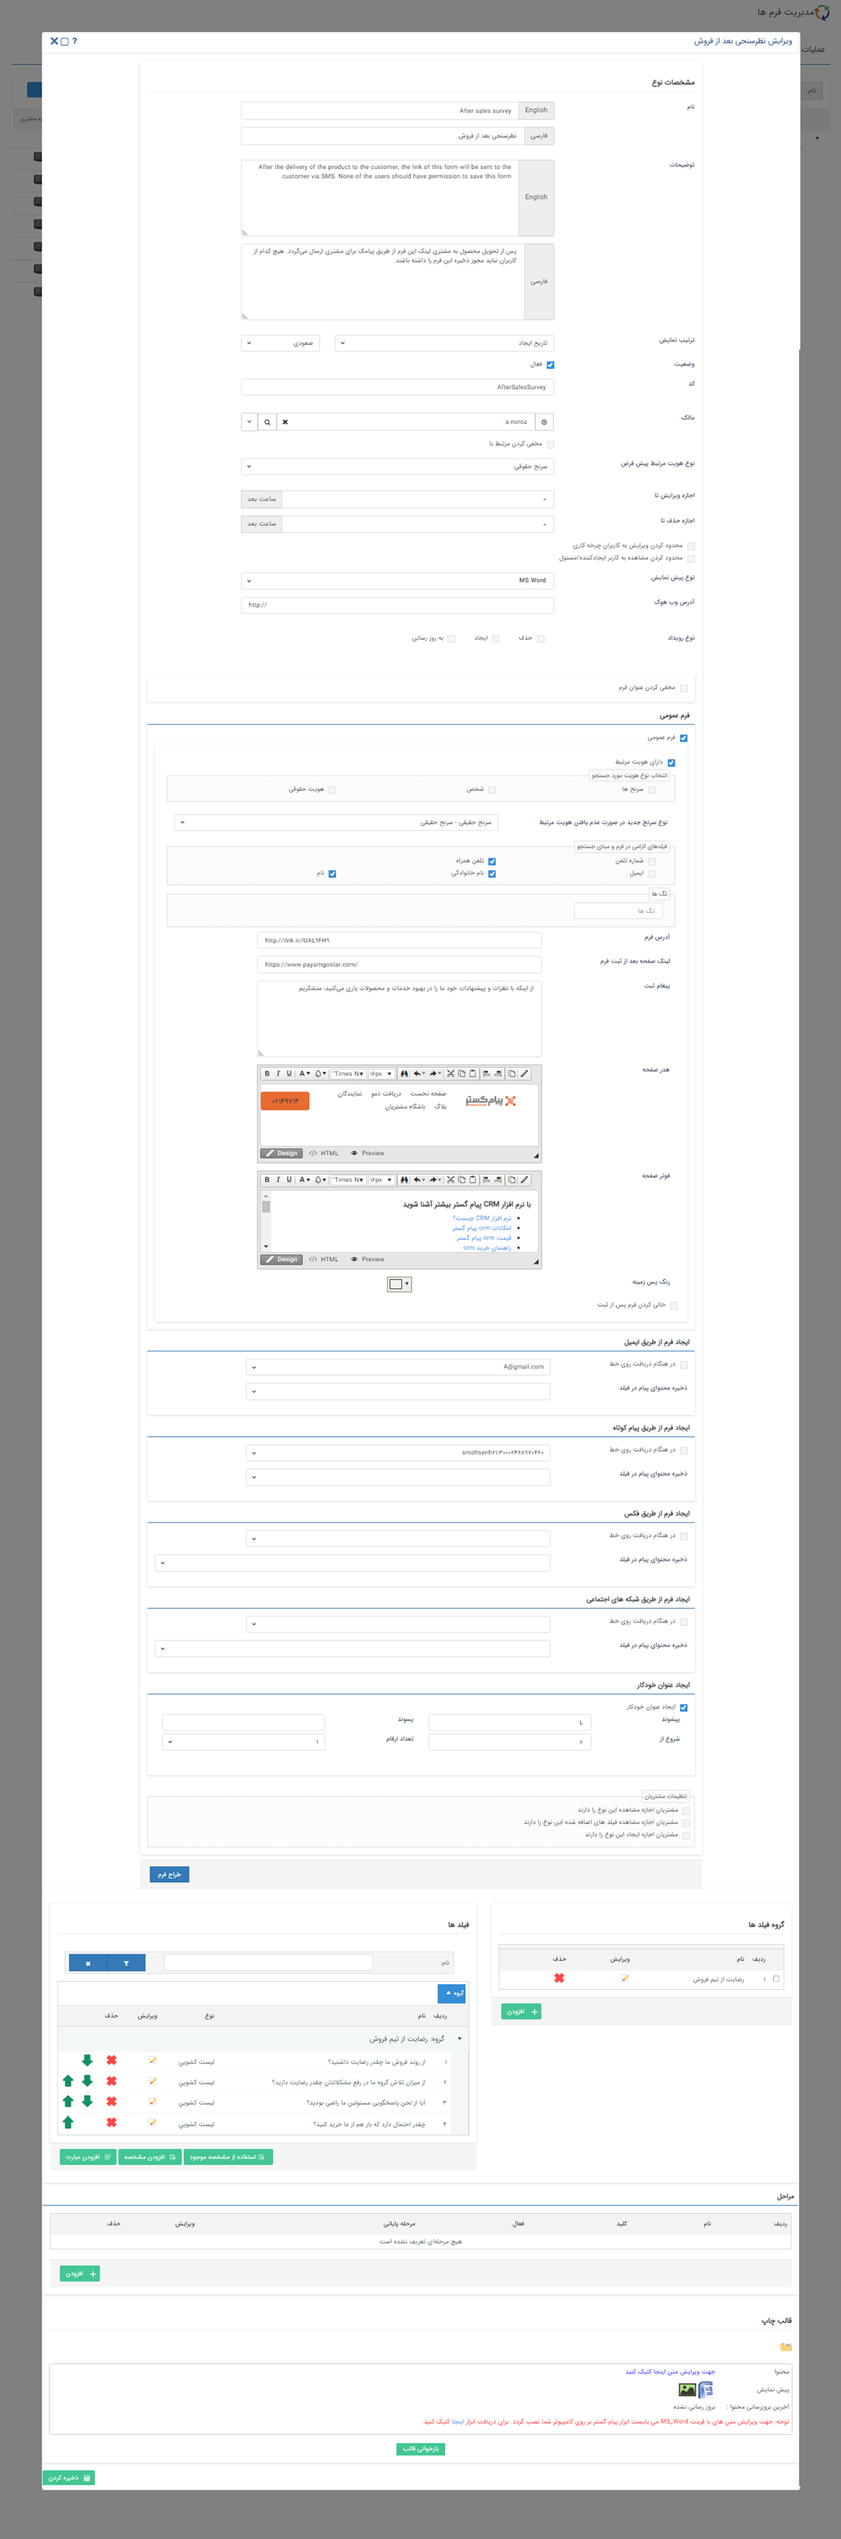
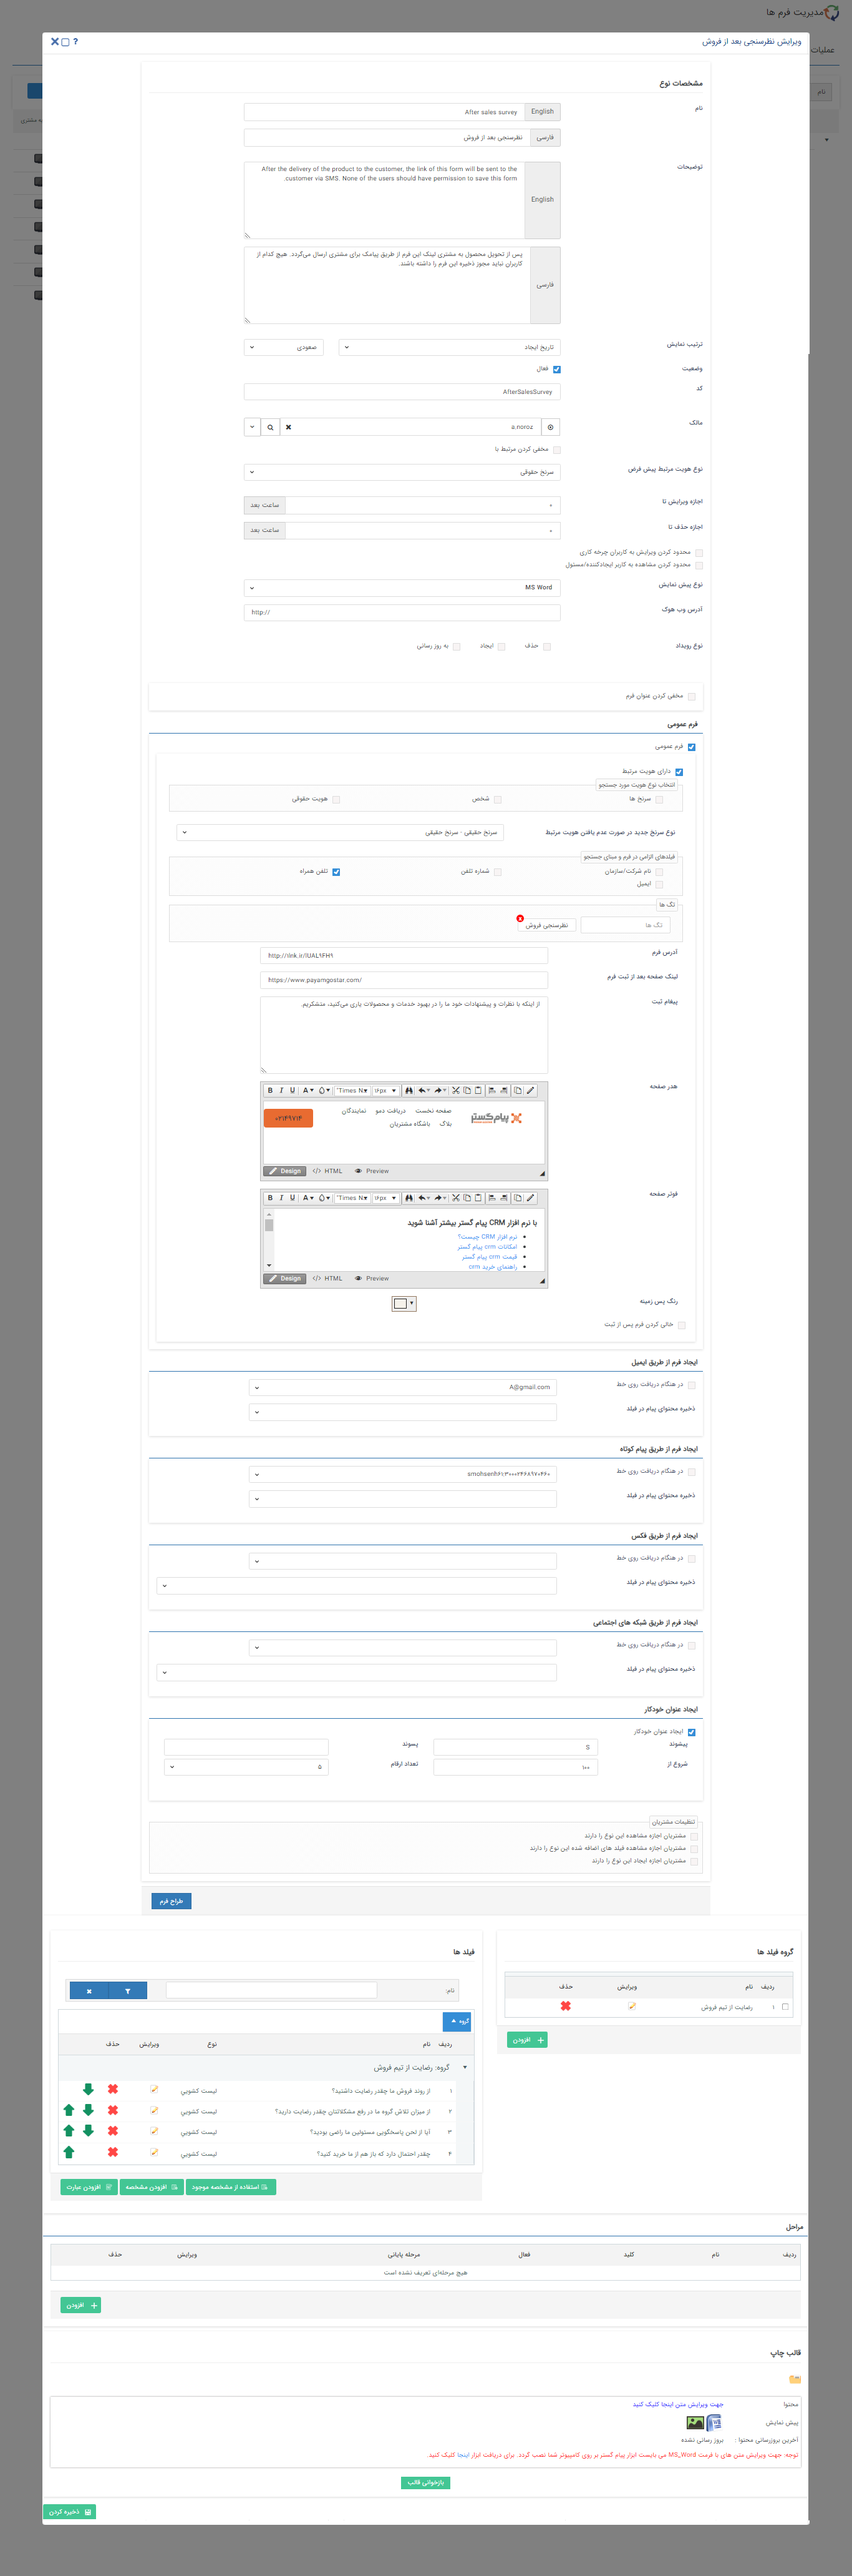
General form edition

diff --git a/help2.5.4/Settings/Personalization-crm/Form-management/GeneralForm2.6.4.md b/help2.5.4/Settings/Personalization-crm/Form-management/GeneralForm2.6.4.md
@@ -9,32 +9,32 @@
 
 ![صفحه تنظیمات فرم عمومی](./Images/GeneralForm.jpg)
 
-###### تنظیمات هویت مرتبط فرم عمومی
+##### تنظیمات هویت مرتبط فرم عمومی
 برای استفاده از فرم عمومی میتوانید تعیین کنید که هنگام ذخیره، فرم پروفایل مرتبط داشته باشد. این امکان وجود دارد که اگر هویت مرتبط از قبل در سیستم موجود باشد، فرم در سوابق آن ذخیره شود و در غیر این صورت سرنخ جدید به ازای فرم ثبت شده ایجاد میگردد.<br>
 - **ذخیره فرم بدون پروفایل مرتبط**<br>
    اگر چک باکس **دارای هویت مرتبط** را فعال نکنید فرم در هر صورت بدون هیچ هویتی و تنها با فیلدهای اضافهای که در آن تنظیم کردهاید، ذخیره میشود بنابراین صفحهای که مخاطب شما از فرم مشاهده میکند به شکل زیر خواهد بود (فیلدهای اطلاعات تماسی را ندارد).
-   
-   ![صفحه فرم عمومی بدون اطلاعات تماسی هویت](./Images/General-Form-Without-Identity.png)
 
-    فرمهای عمومیای که ذخیره میشوند را در قسمت **اتوماسیون و فرآیندهای سازمانی** > **فرمها** > **زیرنوع مورد نظر** میتوانید مشاهده کنید. لازم به ذکر است همانطور که در تصویر زیر مشاهده میکنید فرم عمومی بدون هویت مرتبط در لیست فرمها نیز پروفایل مرتبط نخواهد داشت.
+![صفحه فرم عمومی بدون اطلاعات تماسی هویت](./Images/General-Form-Without-Identity.png)
+
+فرمهای عمومیای که ذخیره میشوند را در قسمت **اتوماسیون و فرآیندهای سازمانی** > **فرمها** > **زیرنوع مورد نظر** میتوانید مشاهده کنید. لازم به ذکر است همانطور که در تصویر زیر مشاهده میکنید فرم عمومی بدون هویت مرتبط در لیست فرمها نیز پروفایل مرتبط نخواهد داشت.
 
 ![لیست فرم عمومی بدون هویت مرتبط](./Images/ListOfFormWithoutIdentity.png)
 
 - **ذخیره فرم با پروفایل مرتبط**<br>
    برای اینکه فرم عمومی شما حتما با یک پرفایل مرتبط ذخیره شود، لازم است چک باکس **دارای هویت مرتبط** را فعال کنید. در این صورت هنگام ذخیره فرم در سایت، فیلدهای اطلاعات هویتی و تماسی بر اساس نوع هویت تعیین شده (حقیقی یا حقوقی) در قسمت **نوع سرنخ جدید در صورت عدم یافتن هویت مرتبط** نمایش داده میشود. 
 
-   ![تنظیمات هویت مرتبط در شخصیسازی فرم عمومی](./Images/Identity-in-general-form.png)
+![تنظیمات هویت مرتبط در شخصیسازی فرم عمومی](./Images/Identity-in-general-form.png)
 
 > **نکته**<br>
 > هویتی که از طریق فرم عمومی ذخیره میشود تنها به صورت **سرنخ حقیقی یا حقوقی** بوده که باید از قبل زیرنوع سرنخ مورد نظر خود را در بخش شخصیسازی CRM ایجاد کرده باشید.
 
 ![انتخاب نوع سرنخ حقیقی یا حقوقی در فرم عمومی](./Images/TypeOfIdentityInGeneralForm.png)
 
-اگر نوع سرنخ را حقوقی انتخاب کنید صفحهای که مخاطب شما در سایت مشاهده میکند به شکل زیر خواهد بود.
+اگر نوع هویت را **سرنخ حقوقی** انتخاب کنید صفحهای که مخاطب شما در سایت مشاهده میکند به شکل زیر خواهد بود.
 
 ![اطلاعات سرنخ حقوقی در فرم عمومی](./Images/Organization-Identity-In-General-Form.png)
 
-و در صورت انتخاب نوع سرنخ حقیقی، اطلاعات تماسی هویت در فرم عمومی همراه با نام و نام خانوادگی خواهد بود.
+و در صورت انتخاب نوع **سرنخ حقیقی**، اطلاعات تماسی هویت در فرم عمومی همراه با نام و نام خانوادگی خواهد بود.
 
 ![اطلاعات سرنخ حقیقی در فرم عمومی](./Images/Person-In-General-Form.png)
 
@@ -44,7 +44,7 @@
 - **تنظیمات جستجوی پروفایل مرتبط**<br>
    از طریق **انتخاب نوع هویت مورد جستجو** میتوانید تعیین کنید اطلاعاتی که سرنخ شما هنگام ذخیره فرم عمومی تکمیل کرده است، در کدام یک از انواع هویت (سرنخها، شخص و هویت حقوقی) جستجو شود. در نتیجهی جستجو، اگر هویت مرتبط اطلاعاتش قبلا در سیستم موجود بود فرم عمومی در سوابق آن ذخیره میشود در غیراینصورت یک سرنخ جدید با این اطلاعات ایجاد میکند. لازم به ذکر است میتوانید از گزینههای **سرنخها**، **شخص** و **هویت حقوقی** یک یا هر سه گزینه را انتخاب نمایید.<br>
 
-   ![جستجوی هویت مرتبط در فرم عمومی](./Images/Search-Identity-In-General-Form.png)
+![جستجوی هویت مرتبط در فرم عمومی](./Images/Search-Identity-In-General-Form.png)
 
 > **نکته**<br>
 > مسیر [دخیره اطلاعات](https://github.com/1stco/PayamGostarDocs/blob/master/help2.5.4/Settings/General-settings/User-category/User-category.md) سرنخهایی که از طریق فرم عمومی ایجاد میشوند، در قسمت **تنظیمات کلی** > **دستهبندی کاربران** > **گروه پیش فرض ذخیره مشتریان** > **سرنخ** تعیین میشود.
